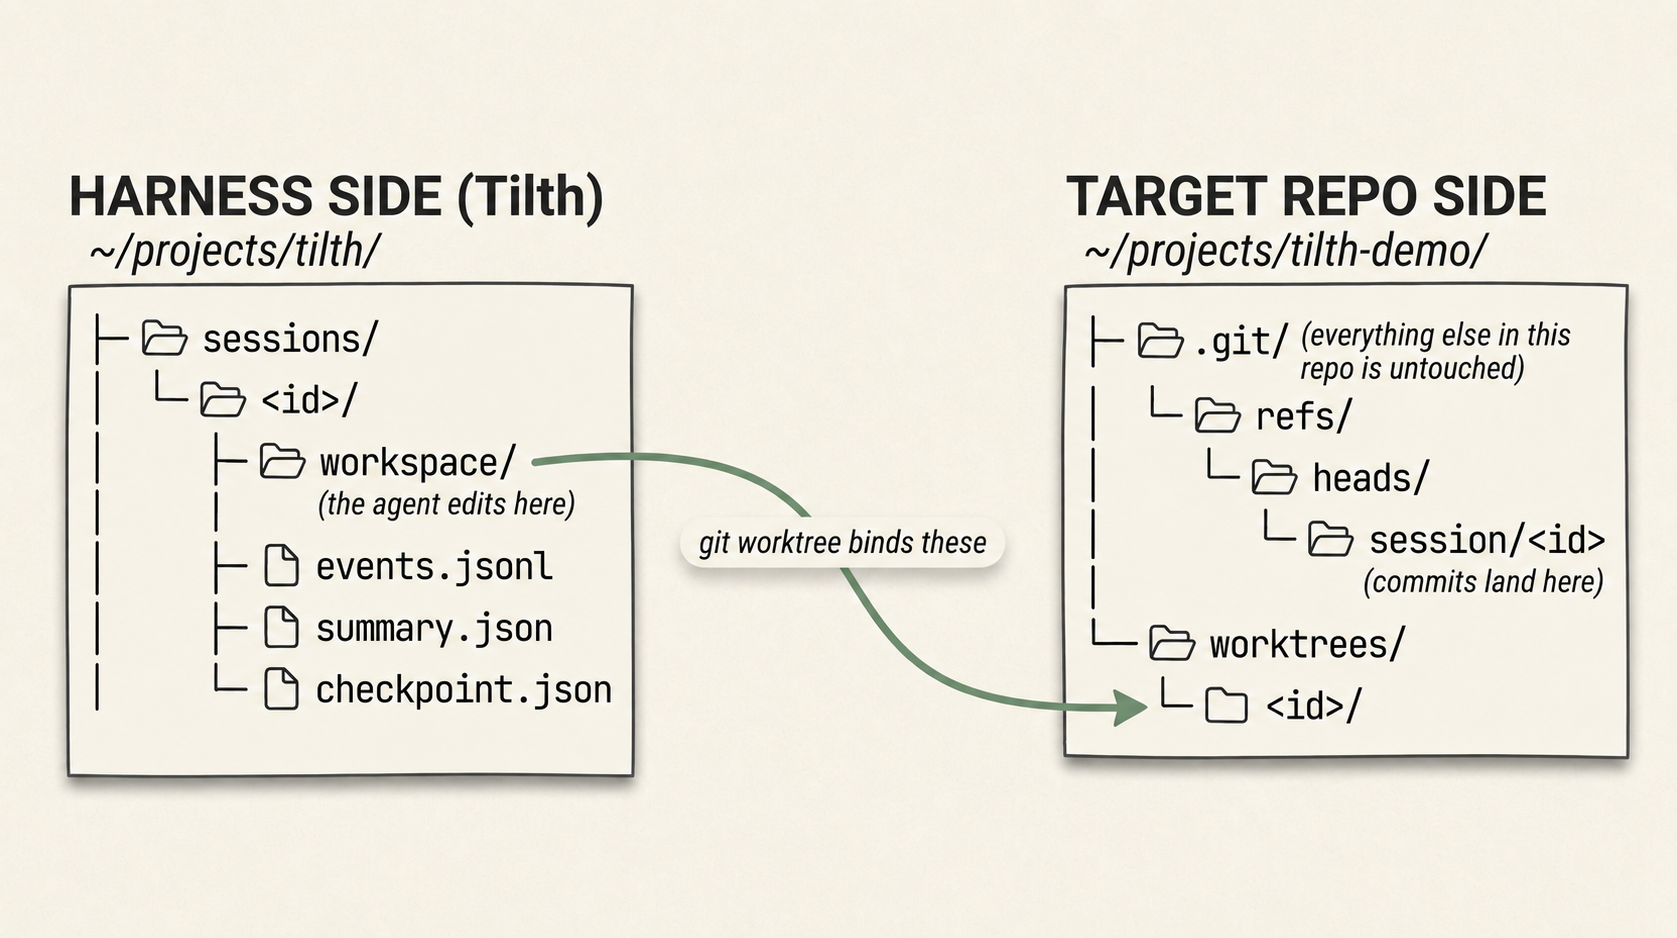
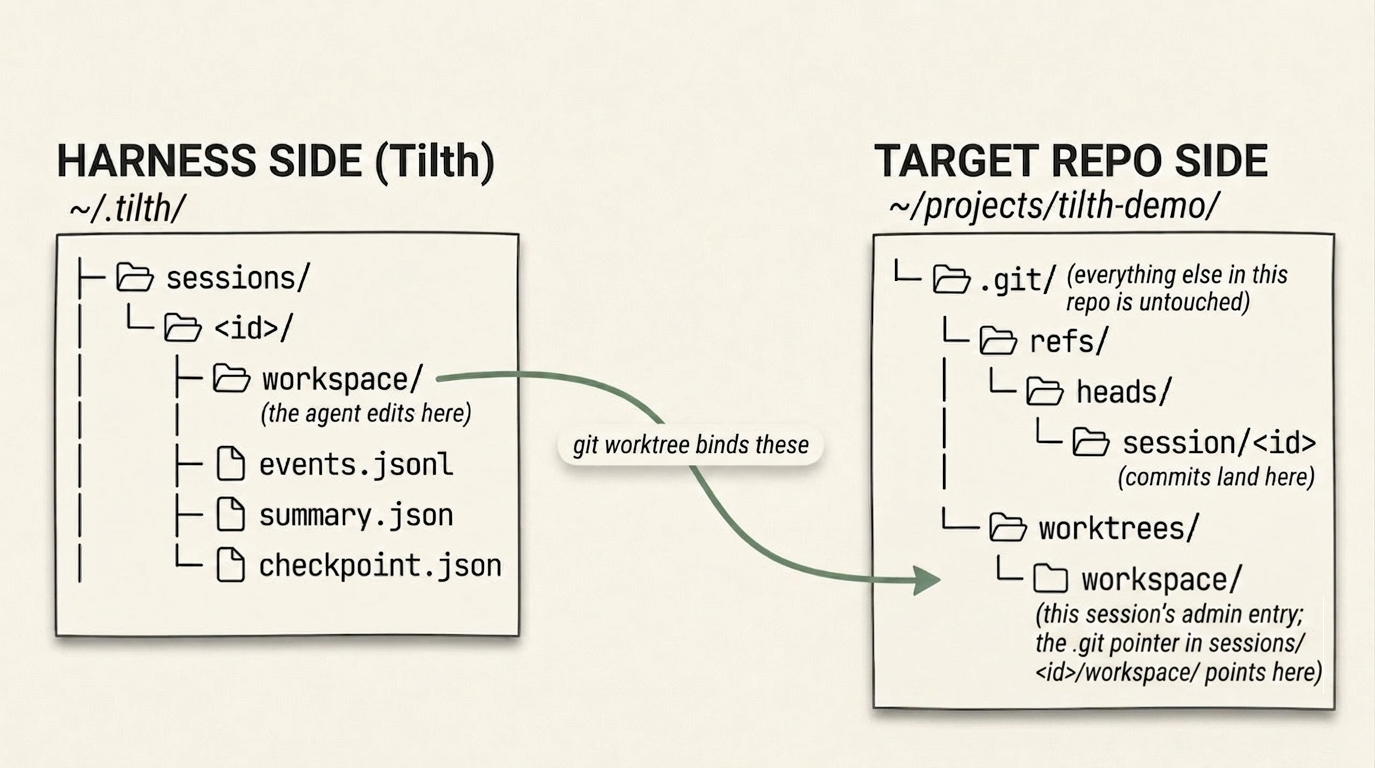
docs: correct the session-layout diagram and its alt text
The TARGET REPO SIDE showed the worktree admin entry as a top-level worktrees/<id>/
under the repo root; git actually stores it inside .git as .git/worktrees/workspace/
(named after the worktree dir's basename, which Tilth always creates as 'workspace').
The HARNESS SIDE root also showed the legacy clone-local ~/projects/tilth/; sessions
live under ~/.tilth/ post-#8. Updates the regenerated PNG plus the matching alt text
in both pages that embed it.

diff --git a/docs/deep-dives/session-layout.md b/docs/deep-dives/session-layout.md
@@ -2,7 +2,7 @@
 
 A single Tilth run has artifacts on disk in two distinct places: the **harness side** (under `~/.tilth/sessions/<id>/`) and the **target repo side** (a branch and a worktree admin entry inside the repo's `.git/`). This split is deliberate.
 
-![Filesystem trees for one Tilth run: HARNESS SIDE under ~/.tilth/sessions/<id>/ holds workspace/, events.jsonl, summary.json, checkpoint.json; TARGET REPO SIDE under ~/projects/tilth-demo/.git/ holds refs/heads/session/<id> and worktrees/<id>/. A sage-green arrow labeled 'git worktree binds these' connects the workspace/ on the left to the worktrees/<id>/ admin entry on the right.](../assets/session-layout.png)
+![Filesystem trees for one Tilth run: HARNESS SIDE under ~/.tilth/sessions/<id>/ holds workspace/, events.jsonl, summary.json, checkpoint.json; TARGET REPO SIDE under ~/projects/tilth-demo/.git/ holds refs/heads/session/<id> and worktrees/workspace/. A sage-green arrow labeled 'git worktree binds these' connects the workspace/ on the left to the worktrees/workspace/ admin entry on the right.](../assets/session-layout.png)
 
 *One session, two locations. The sage-green link is the `git worktree` registration that binds them.*
 {: .caption }
@@ -24,7 +24,7 @@ The flip side: the target repo stays pristine. Tilth never asks you to add anyth
 - **`ls` in the target repo won't show the worktree.** If you're looking for "where is the agent editing right now," look under `~/.tilth/sessions/<id>/workspace/`, not in the target repo.
 - **Branches accumulate in the target repo, not in Tilth.** Every run leaves a `session/<id>` branch in the target repo's `.git/refs/heads/`. If you delete your Tilth clone without resetting first, those branches stay behind in your project. Clean them up the same way you would any feature branch (`git branch -D session/<id>` or `tilth reset` before you blow Tilth away).
 - **Multiple concurrent sessions against the same target repo are fine.** Each gets its own `sessions/<id>/workspace/` directory on the left and its own branch + admin entry on the right. Git is happy to host many worktrees off one repo.
-- **The admin entry is the link.** If the working tree directory under Tilth gets removed manually (e.g., `rm -rf`), the `.git/worktrees/<id>/` admin entry becomes stale; `git worktree prune` cleans it up. `tilth reset` does this correctly.
+- **The admin entry is the link.** If the working tree directory under Tilth gets removed manually (e.g., `rm -rf`), the `.git/worktrees/workspace/` admin entry becomes stale; `git worktree prune` cleans it up. `tilth reset` does this correctly.
 
 ## Event types
 

diff --git a/docs/getting-started/running-the-demo.md b/docs/getting-started/running-the-demo.md
@@ -43,7 +43,7 @@ If the directory is missing (or malformed), `tilth run` fails fast *before* crea
 
 For the demo, try a feature like *"a minimal todo CLI with add, list, and done subcommands, on-disk format `- [ ] item` in `TODOS.md`"*, sliced into three or four tasks.
 
-![Filesystem trees for one Tilth run: HARNESS SIDE under ~/.tilth/sessions/<id>/ holds workspace/, events.jsonl, summary.json, checkpoint.json; TARGET REPO SIDE under ~/projects/tilth-demo/.git/ holds refs/heads/session/<id> and worktrees/<id>/. A sage-green arrow labeled 'git worktree binds these' connects the workspace/ on the left to the worktrees/<id>/ admin entry on the right.](../assets/session-layout.png)
+![Filesystem trees for one Tilth run: HARNESS SIDE under ~/.tilth/sessions/<id>/ holds workspace/, events.jsonl, summary.json, checkpoint.json; TARGET REPO SIDE under ~/projects/tilth-demo/.git/ holds refs/heads/session/<id> and worktrees/workspace/. A sage-green arrow labeled 'git worktree binds these' connects the workspace/ on the left to the worktrees/workspace/ admin entry on the right.](../assets/session-layout.png)
 
 *Where a session's state lives. Everything the harness writes — the event log, the status overlay, the summary — sits under Tilth's per-user data dir (`~/.tilth/sessions/<id>/`); only the `session/<id>` branch and its worktree admin entry live in the demo repo's `.git`. The task markdown you authored stays in your repo, where you put it. Full breakdown in [Session layout](../deep-dives/session-layout.md).*
 {: .caption }